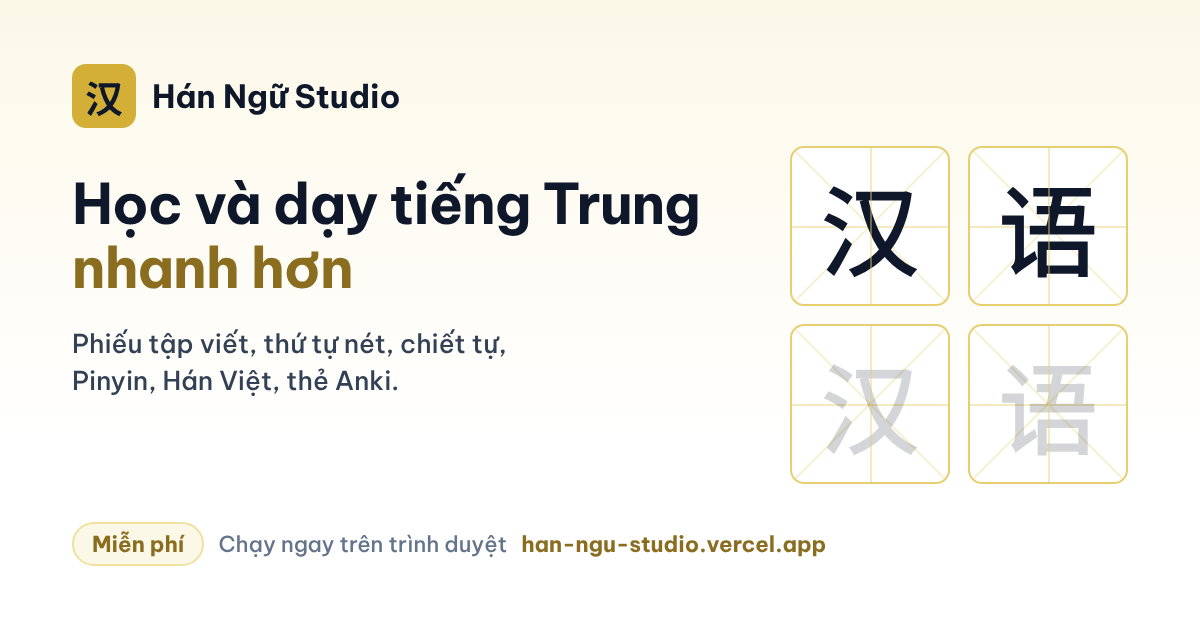
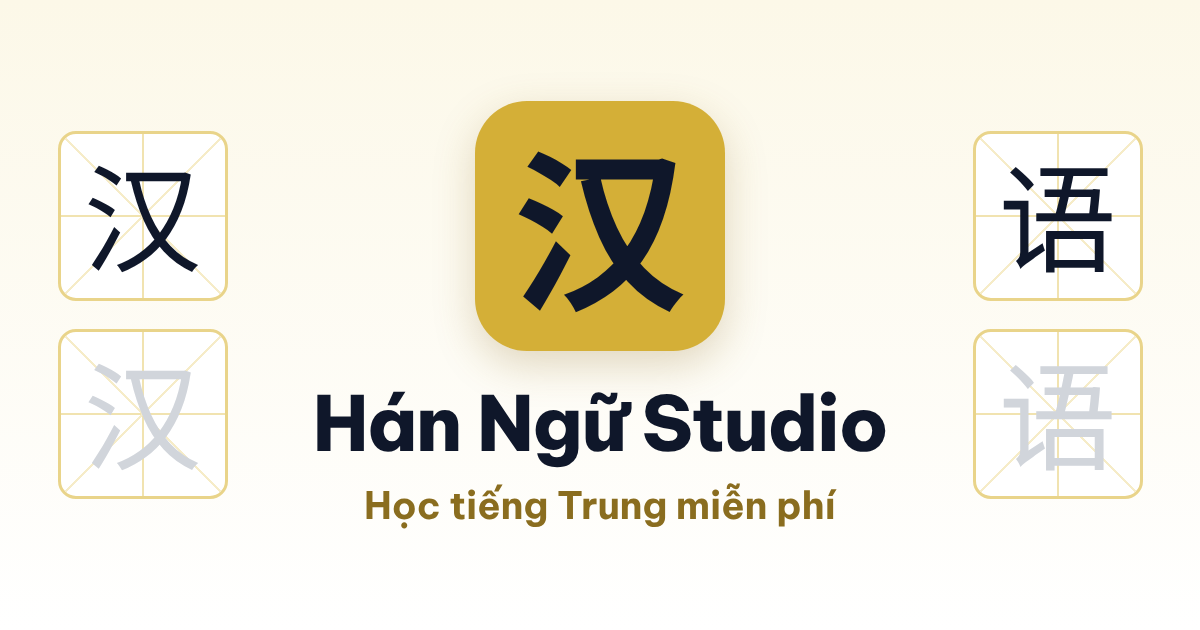
fix(seo): link preview readable when Facebook crops it to a square
In a Facebook comment the link card shows a small near-square thumbnail cut
from the centre of the 1200x630 image, so the old layout (headline left,
汉语 grid right) showed only fragments. Redraw it around the centre 630x630:
big 汉 tile, "Hán Ngữ Studio" and a one-line tagline; side grids are
decoration only. Notes and before/after crops in docs.

Claude-Session: https://claude.ai/code/session_017o6Hfp5ntJPMBwb4cX8rV5

diff --git a/docs/plans/2026-11-10-link-preview.md b/docs/plans/2026-11-10-link-preview.md
@@ -22,6 +22,15 @@ The images are drawn from HTML with Playwright (Be Vietnam Pro + Noto Sans SC fr
 and 512×512, then shrunk with Pillow. Colours: gold `#D4AF37`, text `#0F172A`, accent text `#8A6D1F`,
 background `#FCF8E8` → white. Each headline line is fixed (`white-space: nowrap`) so no word wraps alone.
 
+## Square-crop safe area (2026-11-11)
+
+Facebook shows a link in a comment as a small card with a near-square thumbnail on the left, cropped from the
+centre of the 1200×630 image. The first image (headline on the left, 汉语 grid on the right) lost both halves and
+read as fragments. The image is now laid out around the centre 630×630 (x 285–915): the gold 汉 tile (250 px),
+"Hán Ngữ Studio" (76 px) and "Học tiếng Trung miễn phí" all sit inside it; the 米字格 tiles on the sides are
+decoration only. Keep any future text inside that square and large enough to read at ~175 px wide.
+Before/after crops: `docs/screenshots/link-preview/`.
+
 ## Checking after deploy
 
 Facebook caches previews: re-scrape with https://developers.facebook.com/tools/debug/ ("Scrape Again").
